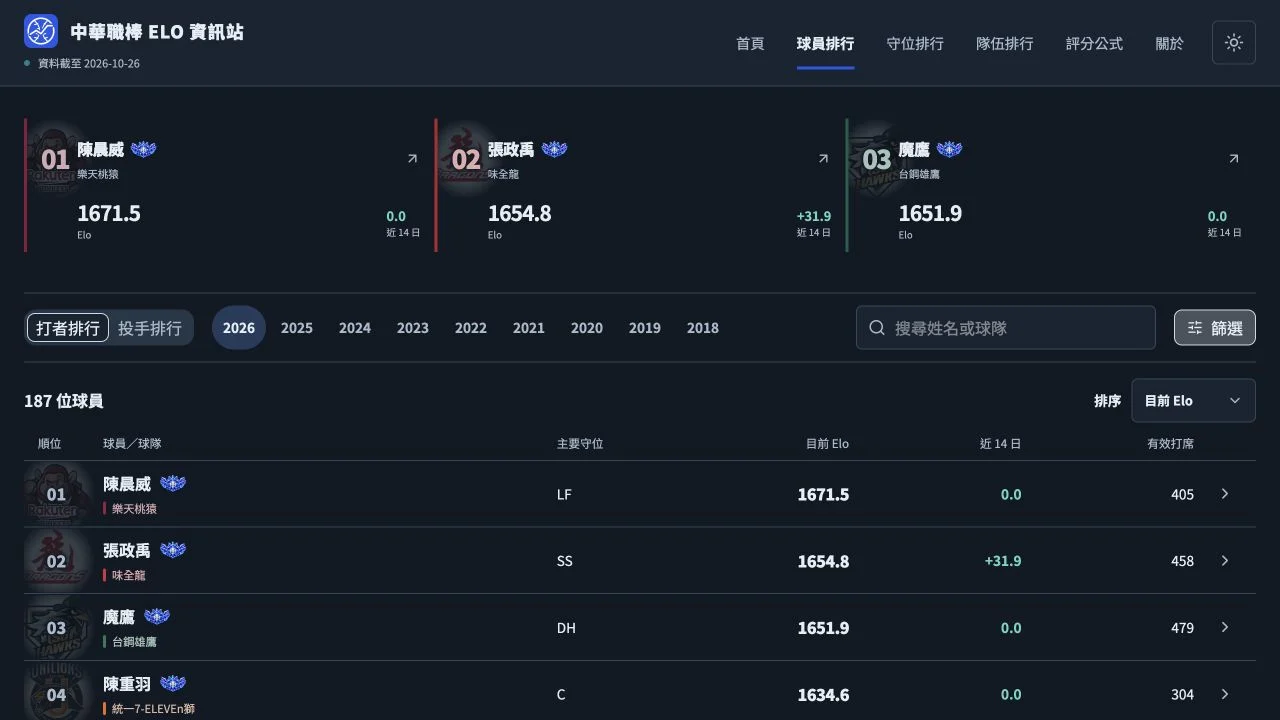
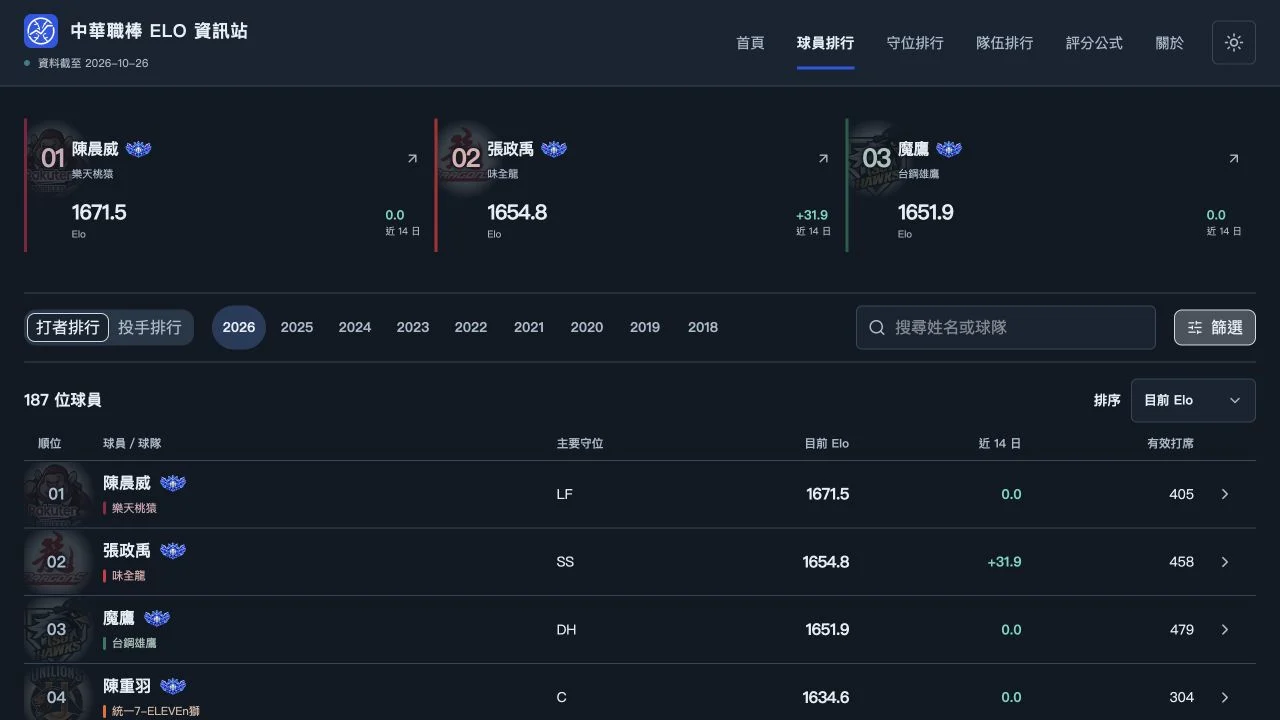
feat(portfolio): feature CPBL ELO and refresh project screenshots (#30)

diff --git a/data/home-scenes.ts b/data/home-scenes.ts
@@ -75,27 +75,27 @@ export const sceneProjects = [
     },
   },
   {
-    id: "eatswiper",
-    name: "EatSwiper",
-    tech: "Flutter / Google Places / SQLite",
-    url: "https://apps.apple.com/tw/app/eatswiper/id6755628087",
+    id: "baseball-public",
+    name: "CPBL ELO",
+    tech: "Vue 3 / TypeScript / ECharts / Python",
+    url: "https://cpbl-elo.tttingzhang999.com/",
     description: {
       "zh-TW":
-        "用 Flutter 與 Google Places 建立滑卡探索、收藏與餐廳抽選流程，讓「吃什麼」更容易決定。已上架 iOS。",
-      en: "Swipe, save and pick restaurants with Flutter and Google Places. Available on iOS.",
-      ja: "Flutter と Google Places でレストランを探し、保存し、選ぶアプリ。iOS で公開中。",
+        "以 Elo 評分、OPS+ 與互動圖表探索中職球員表現，從年度排行一路查看逐日與逐打席的變化。",
+      en: "Explore CPBL player performance through Elo ratings, OPS+ and interactive charts, from season rankings to daily and plate-appearance histories.",
+      ja: "Elo 評価、OPS+、インタラクティブなグラフで台湾プロ野球選手の成績を探り、年度ランキングから日別・打席別の推移まで確認。",
     },
   },
   {
-    id: "promptlingo",
-    name: "Promptlingo",
-    tech: "Claude Code Skill / CEFR A1–C2",
-    url: "https://github.com/tttingzhang999/promptlingo",
+    id: "aws-diagram",
+    name: "AWS Diagram",
+    tech: "Agent Skill / Python / AWS / Terraform / draw.io",
+    url: "https://github.com/tttingzhang999/aws-diagram",
     description: {
       "zh-TW":
-        "把真實開發對話轉成符合程度的英文學習素材，讓語言練習接上每天的工作。以 Claude Code Skill 形式使用。",
-      en: "A Claude Code Skill that turns real development conversations into English practice matched to your level.",
-      ja: "日々の開発で交わす会話を、習熟度に合った英語学習素材にする Claude Code Skill。",
+        "從需求、程式碼與 Terraform 整理架構，使用 AWS 官方圖示產出可編輯的 draw.io 架構圖。",
+      en: "Turn requirements, source code and Terraform into editable draw.io architecture diagrams using official AWS icons.",
+      ja: "要件・ソースコード・Terraform から構成を整理し、AWS 公式アイコンを使った編集可能な draw.io 構成図を生成。",
     },
   },
 ] as const;

diff --git a/data/projects-ja.ts b/data/projects-ja.ts
@@ -17,9 +17,9 @@ export const projects: Project[] = [
     "image": "/images/projects/baseball-public/rankings.webp",
     "images": [
       "/images/projects/baseball-public/rankings.webp",
-      "/images/projects/baseball-public/formulas.webp"
+      "/images/projects/baseball-public/player.webp"
     ],
-    "title": "Baseball Public - CPBL Elo 分析サイト",
+    "title": "CPBL ELO - CPBL Elo 分析サイト",
     "description": "台湾プロ野球の打席データを、選手ランキングと成績推移として閲覧できる分析サイト。Elo 相対評価、OPS+、ランク区分と計算シミュレーターを通じて、選手の変化を探れます。",
     "highlights": [
       "年度・投打の役割・球団でランキングを絞り込み、Elo、直近14日間の変化とランク区分を表示",
@@ -31,7 +31,7 @@ export const projects: Project[] = [
     "teamSize": "3人",
     "subtitle": "打席データから選手の成績推移へ",
     "kind": "Web · スポーツデータ分析",
-    "shortName": "Baseball Public",
+    "shortName": "CPBL ELO",
     "screenshot": "/images/projects/baseball-public/rankings.webp"
   },
   {

diff --git a/data/projects-en.ts b/data/projects-en.ts
@@ -17,9 +17,9 @@ export const projects: Project[] = [
     "image": "/images/projects/baseball-public/rankings.webp",
     "images": [
       "/images/projects/baseball-public/rankings.webp",
-      "/images/projects/baseball-public/formulas.webp"
+      "/images/projects/baseball-public/player.webp"
     ],
-    "title": "Baseball Public - CPBL Elo Analytics",
+    "title": "CPBL ELO - CPBL Elo Analytics",
     "description": "A baseball analytics website that turns CPBL plate-appearance data into player rankings and performance histories. Elo ratings, OPS+, tiers and an interactive formula calculator help fans explore how player performance changes over time.",
     "highlights": [
       "Filter rankings by season, player role and team, with Elo ratings, 14-day changes and percentile tiers",
@@ -31,7 +31,7 @@ export const projects: Project[] = [
     "teamSize": "3 people",
     "subtitle": "From plate appearances to player performance trends",
     "kind": "Web · Sports Analytics",
-    "shortName": "Baseball Public",
+    "shortName": "CPBL ELO",
     "screenshot": "/images/projects/baseball-public/rankings.webp"
   },
   {

diff --git a/data/projects-zh-TW.ts b/data/projects-zh-TW.ts
@@ -17,9 +17,9 @@ export const projects: Project[] = [
     "image": "/images/projects/baseball-public/rankings.webp",
     "images": [
       "/images/projects/baseball-public/rankings.webp",
-      "/images/projects/baseball-public/formulas.webp"
+      "/images/projects/baseball-public/player.webp"
     ],
-    "title": "Baseball Public - 中華職棒 ELO 資訊站",
+    "title": "CPBL ELO - 中華職棒 ELO 資訊站",
     "description": "將中職逐打席資料整理為球迷可探索的球員分析網站，以 Elo 相對評分、OPS+ 與牌位呈現球員表現，串接年度排行、球員歷史與公式試算，讓數據背後的變化更容易理解。",
     "highlights": [
       "依年度、投打角色與球隊篩選球員排行，結合 Elo、近 14 日變化與牌位",
@@ -31,7 +31,7 @@ export const projects: Project[] = [
     "teamSize": "3人",
     "subtitle": "從逐打席資料到球員表現趨勢",
     "kind": "網站 · 運動數據分析",
-    "shortName": "Baseball Public",
+    "shortName": "CPBL ELO",
     "screenshot": "/images/projects/baseball-public/rankings.webp"
   },
   {

diff --git a/tests/home-scenes.spec.ts b/tests/home-scenes.spec.ts
@@ -41,8 +41,11 @@ test("scene navigation, repeated timeline, hover, routing cleanup and return", a
   await expect(root).toHaveAttribute("data-journal-intro", "done");
   await page.locator('.scene-nav [data-go="practice"]').click();
   await expect(root).toHaveAttribute("data-scene", "2");
-  await page.locator('[data-project="eatswiper"]').click();
-  await expect(page.locator("#project-description")).toContainText("Flutter");
+  await expect(page.locator("[data-project]")).toHaveText(["Moniit", "CPBL ELO", "AWS Diagram"]);
+  await page.locator('[data-project="baseball-public"]').click();
+  await expect(page.locator("#project-description")).toContainText("Elo");
+  await page.locator('[data-project="aws-diagram"]').click();
+  await expect(page.locator("#project-description")).toContainText("draw.io");
   await page.locator('.scene-nav [data-go="writing"]').click();
   await expect(root).toHaveAttribute("data-scene", "1");
   await expect(root).toHaveAttribute("data-journal-intro", "done");

diff --git a/data/projects.ts b/data/projects.ts
@@ -33,9 +33,9 @@ export const projects: Project[] = [
     "image": "/images/projects/baseball-public/rankings.webp",
     "images": [
       "/images/projects/baseball-public/rankings.webp",
-      "/images/projects/baseball-public/formulas.webp"
+      "/images/projects/baseball-public/player.webp"
     ],
-    "title": "Baseball Public - 中華職棒 ELO 資訊站",
+    "title": "CPBL ELO - 中華職棒 ELO 資訊站",
     "description": "將中職逐打席資料整理為球迷可探索的球員分析網站，以 Elo 相對評分、OPS+ 與牌位呈現球員表現，串接年度排行、球員歷史與公式試算，讓數據背後的變化更容易理解。",
     "highlights": [
       "依年度、投打角色與球隊篩選球員排行，結合 Elo、近 14 日變化與牌位",

diff --git a/utils/home/filament.ts b/utils/home/filament.ts
@@ -80,8 +80,7 @@ export function createFilament(root: HTMLElement) {
         y,
       ]);
     }
-    const key = ["moniit", "eatswiper", "promptlingo"][state.project];
-    const item = contentBox(`[data-project="${key}"]`, 2);
+    const item = contentBox(`[data-project]:nth-child(${state.project + 1})`, 2);
     const x = item.x - 22,
       y = item.y + item.height * 0.52;
     return [0, 1, 2].map((i) => [

diff --git a/docs/plans/baseball-public-project.md b/docs/plans/baseball-public-project.md
@@ -5,3 +5,7 @@
 資料依據為本機 baseball repo 的前端程式、README、公開網站與 AboutPage 成員介紹。介紹球員排行、Elo／OPS+ 歷史、守位排行、公式試算，以及靜態 JSON 與離線資料流程。Ting 的工作為前後端與爬蟲資料建置，團隊三人。
 
 公開網站為 https://cpbl-elo.tttingzhang999.com/，repo 為私人，連結採公開網站。展示圖取自公開網站的排行與公式頁，轉成 WebP。驗證資料完整性、各語系排序、圖片載入與手機無水平溢出。
+
+## 名稱、展示圖片與首頁精選更新
+
+顯示名稱改為 CPBL ELO，圖集使用球員排行及球員詳細頁。首頁精選依序為 Moniit、CPBL ELO、AWS Diagram，三語介紹與連結對應各專案。既有專案 anchor 與期間沿用，替換不再使用的公式截圖。以現有專案資料及瀏覽器測試驗證名稱、圖片切換與首頁選擇行為。
